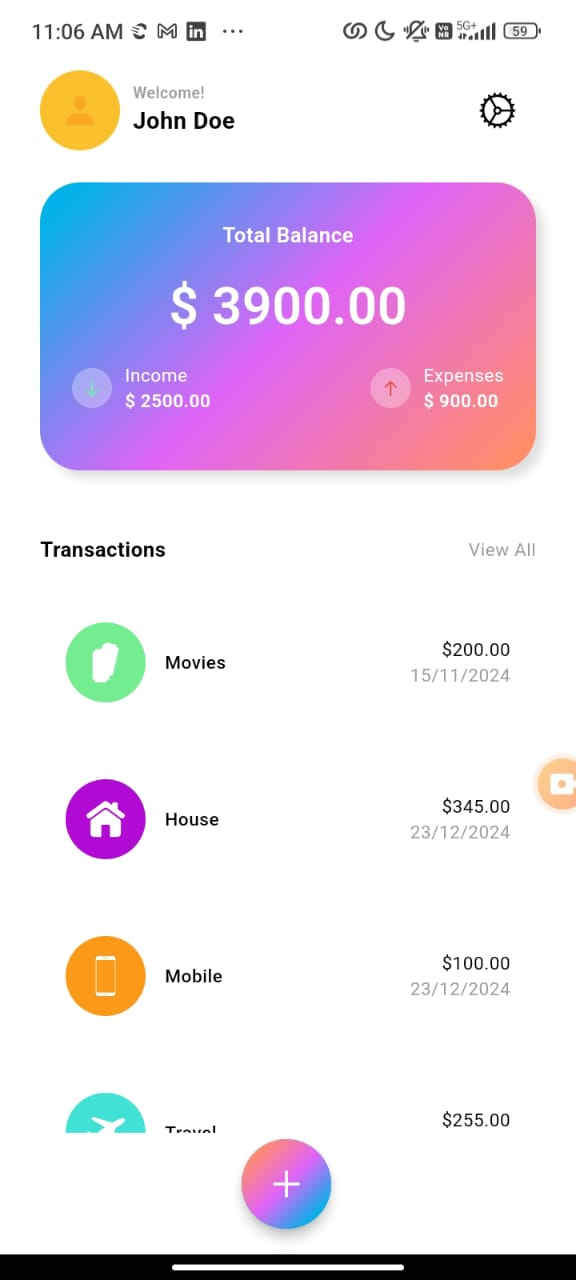
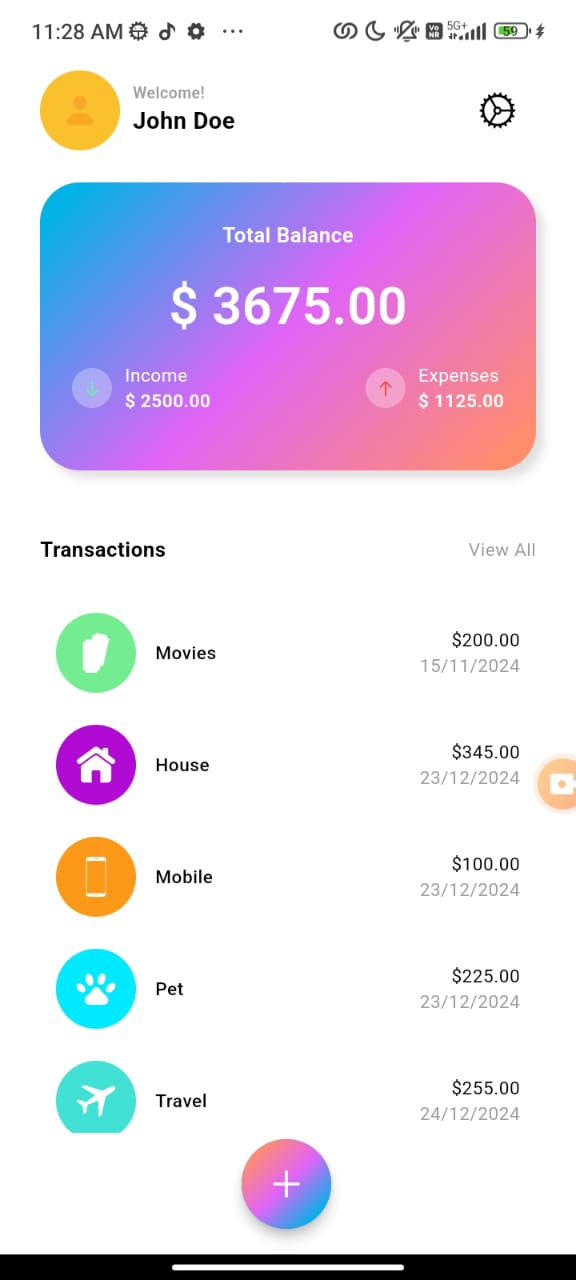
readme Change

diff --git a/lib/infrastructure/i_notification_repo.dart b/lib/infrastructure/i_notification_repo.dart
@@ -1,0 +1,55 @@
+import 'dart:io';
+
+import 'package:flutter_local_notifications/flutter_local_notifications.dart';
+import 'package:permission_handler/permission_handler.dart';
+
+class NotificationService {
+  final FlutterLocalNotificationsPlugin _flutterLocalNotificationsPlugin =
+      FlutterLocalNotificationsPlugin();
+
+  // Singleton pattern
+  static final NotificationService _instance = NotificationService._internal();
+  factory NotificationService() => _instance;
+  NotificationService._internal();
+
+  Future<void> initialize() async {
+    const AndroidInitializationSettings androidSettings =
+        AndroidInitializationSettings('@mipmap/ic_launcher');
+
+    const InitializationSettings initializationSettings =
+        InitializationSettings(android: androidSettings);
+
+    await _flutterLocalNotificationsPlugin.initialize(initializationSettings);
+  }
+
+  Future<void> showNotification({
+    required int id,
+    required String title,
+    required String body,
+  }) async {
+    const AndroidNotificationDetails androidDetails =
+        AndroidNotificationDetails(
+      'channel_id',
+      'channel_name',
+      importance: Importance.high,
+      priority: Priority.high,
+    );
+
+    const NotificationDetails notificationDetails =
+        NotificationDetails(android: androidDetails);
+
+    await _flutterLocalNotificationsPlugin.show(
+      id,
+      title,
+      body,
+      notificationDetails,
+    );
+  }
+
+}
+
+Future<void> requestAndroidPermissions() async {
+  if (Platform.isAndroid && await Permission.notification.isDenied) {
+    await Permission.notification.request();
+  }
+}

diff --git a/lib/presentation/screens/home/main_screen.dart b/lib/presentation/screens/home/main_screen.dart
@@ -253,14 +253,14 @@ class MainScreen extends StatelessWidget {
                 itemCount: expenses.length,
                 itemBuilder: (context, int i) {
                   return Padding(
-                    padding: const EdgeInsets.only(bottom: 16.0),
+                    padding: const EdgeInsets.only(bottom: 0.0),
                     child: Container(
                       decoration: BoxDecoration(
                         color: Colors.white,
                         borderRadius: BorderRadius.circular(12)
                       ),
                       child: Padding(
-                        padding: const EdgeInsets.all(16.0),
+                        padding: const EdgeInsets.all(10.0),
                         child: Row(
                           mainAxisAlignment: MainAxisAlignment.spaceBetween,
                           children: [

diff --git a/lib/application/create_categorybloc/create_category_bloc.dart b/lib/application/create_categorybloc/create_category_bloc.dart
@@ -2,6 +2,7 @@ import 'package:bloc/bloc.dart';
 import 'package:equatable/equatable.dart';
 import '../../domain/src/models/category.dart';
 import '../../infrastructure/i_category_repo.dart';
+import '../../infrastructure/i_notification_repo.dart';
 
 part 'create_category_event.dart';
 part 'create_category_state.dart';
@@ -15,6 +16,11 @@ class CreateCategoryBloc extends Bloc<CreateCategoryEvent, CreateCategoryState> 
       try {
         await categoryRepository.addCategory(event.category);
         emit(CreateCategorySuccess());
+        NotificationService().showNotification(
+      id: 0, 
+      title: 'Category ${event.category.name} Created',
+      body: 'New Category Created For the app with Name ${event.category.name} .',
+    );
       } catch (e) {
         emit(CreateCategoryFailure(errorMessage: e.toString()));
       }

diff --git a/lib/application/create_expense_bloc/create_expense_bloc.dart b/lib/application/create_expense_bloc/create_expense_bloc.dart
@@ -5,6 +5,7 @@ import 'package:equatable/equatable.dart';
 
 import '../../domain/src/models/expense.dart';
 import '../../infrastructure/i_entity_repo.dart';
+import '../../infrastructure/i_notification_repo.dart';
 
 part 'create_expense_event.dart';
 part 'create_expense_state.dart';
@@ -18,6 +19,11 @@ class CreateExpenseBloc extends Bloc<CreateExpenseEvent, CreateExpenseState> {
       try {
         await expenseRepository.addExpense(event.expense);
         emit(CreateExpenseSuccess());
+         NotificationService().showNotification(
+      id: 0, 
+      title: 'New Expence Registerd \$${event.expense.amount}',
+      body: 'New Expence of the amount \$${event.expense.amount} has registered .',
+    );
       } catch (e) {
         log("Create Expence Error : $e");
         emit(CreateExpenseFailure());

diff --git a/lib/main.dart b/lib/main.dart
@@ -8,6 +8,7 @@ import 'package:hive/hive.dart';
 import 'application/simple_bloc_observer.dart';
 import 'domain/src/models/category.dart';
 import 'domain/src/models/expense.dart';
+import 'infrastructure/i_notification_repo.dart';
 
 late final categoryBox;
 late final expenseBox;
@@ -26,6 +27,9 @@ void main() async {
   // Open Boxes
   categoryBox = await Hive.openBox<Category>('categories');
   expenseBox = await Hive.openBox<Expense>('expenses');
+  await NotificationService().initialize();
+  await requestAndroidPermissions();
+
   Bloc.observer = SimpleBlocObserver();
   runApp(const MyApp());
 }

diff --git a/windows/flutter/generated_plugin_registrant.cc b/windows/flutter/generated_plugin_registrant.cc
@@ -7,8 +7,11 @@
 #include "generated_plugin_registrant.h"
 
 #include <firebase_core/firebase_core_plugin_c_api.h>
+#include <permission_handler_windows/permission_handler_windows_plugin.h>
 
 void RegisterPlugins(flutter::PluginRegistry* registry) {
   FirebaseCorePluginCApiRegisterWithRegistrar(
       registry->GetRegistrarForPlugin("FirebaseCorePluginCApi"));
+  PermissionHandlerWindowsPluginRegisterWithRegistrar(
+      registry->GetRegistrarForPlugin("PermissionHandlerWindowsPlugin"));
 }
